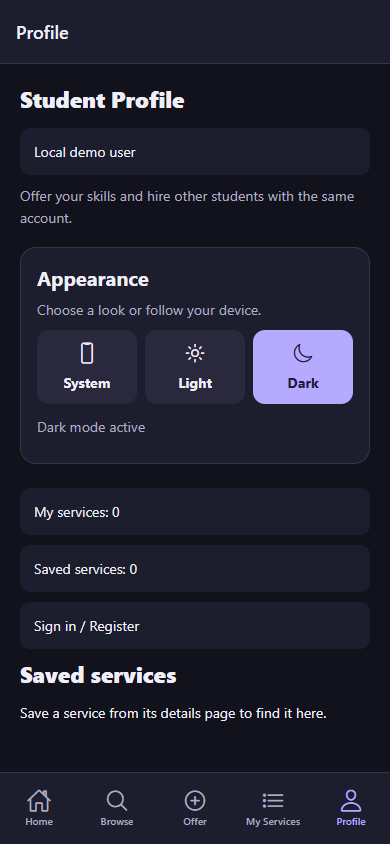
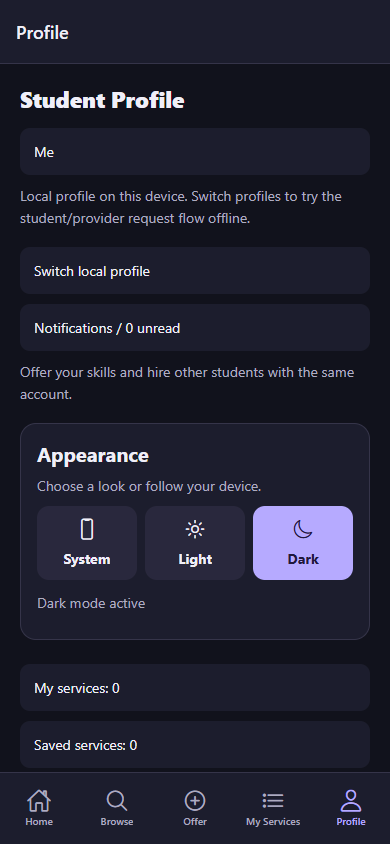
docs: document notification modes and verified mobile flows

diff --git a/README.md b/README.md
@@ -31,6 +31,18 @@ Run `npm run web` and open **http://localhost:8081** (or the port printed by Exp
 
 Screenshots come from the running Expo web application at a mobile viewport. Desktop preview: [home screenshot](docs/screenshots/home-desktop.png).
 
+## Requests and owner notifications
+
+Opening a listing does not send a notification. A student presses **Request course**, **Request class** or **I'm interested** and can add a message of up to 500 characters. The provider receives an unread notification with the listing, sender details and message. Sending a request leaves the listing available; it does not charge money or confirm a booking.
+
+Use the home bell or **Profile > Notifications**. The unread count appears on the bell and Profile tab. Providers can mark individual/all notifications as read, open the service, and use available sender email/phone links. Repeated requests from the same profile/account do not duplicate a notification or reset its read state. Owners cannot request their own listing. Notification text remains available after a listing is deleted.
+
+The inbox refreshes on entry, on foreground resume, and every 10 seconds while the app is active. These are **in-app notifications**, not operating-system push notifications, SMS or automatically sent emails.
+
+| Student request | Provider inbox |
+| --- | --- |
+| ![Interest request](docs/screenshots/interest-request-mobile.png) | ![Provider notification](docs/screenshots/provider-inbox-mobile.png) |
+
 ## Appearance
 
 Open **Profile > Appearance** and choose **System**, **Light** or **Dark**. System is the default and follows device/browser appearance changes while the app is open. Explicit light/dark choices override the device preference and persist across app restarts in the existing SQLite metadata table.
@@ -58,19 +70,29 @@ For a physical device, connect the phone and computer to the same network and us
 
 ## Two modes
 
-**Offline demo (default):** SQLite persists your service/course listings, provider contact details, pricing units, availability, edits, booking status and favorites on the current device. Ten sample offers seed once on new installations. Sample providers have no live phone/email, so their contact buttons remain hidden. Old installations retain their existing listings and favorites; the additive migration supplies safe defaults for the new fields and preserves old deadlines without showing them in the service form. No data reset is required. Deleting listings does not cause them to reappear.
+**Offline local profiles (default / ICA demonstration):** All listings, requests, notifications, favorites and appearance preferences are stored on the current device in SQLite. No public API or online database is used. Ten sample offers seed once on new installations. Existing listings, deadlines, favorites and theme settings survive the versioned migration.
 
-Offline offers stay on the current device. For shared publishing and the in-app hiring action, configure the backend and sign in. Browser SQLite needs WebAssembly and cross-origin isolation; Metro supplies the required headers.
+Open **Profile > Switch local profile**. Use **Me** as a provider, switch to **Student** (or create a learner profile with email and an optional Sri Lankan phone), and send a request. Switch back to the provider to see the inbox. Local profiles are a demonstration on one device, not password-protected online accounts. Favorites and listing ownership are separate for each local profile. Sample providers also have local profiles, so their inboxes can be inspected in the demo.
 
-**Online accounts:** copy `.env.example` to `.env.local`, set `EXPO_PUBLIC_API_URL` to your running UniTask Express API origin, and restart Expo. Open **Profile > Sign in / Register**. The API supports registration/login, shared listings, owner editing/deletion, hiring, completed-service reviews, and notifications (refreshed every 30 seconds while that screen is open).
+**Optional shared accounts:** This repository includes a private Node/SQLite API for accounts and notifications shared across clients. No third-party API, MongoDB or online database is required.
 
-```dotenv
-EXPO_PUBLIC_API_URL=https://your-unitask-api.example.com
+```sh
+# Terminal 1; verified with Node.js 24.13
+npm run api
+# API defaults to http://127.0.0.1:8000
 ```
 
-The existing API already stores contact email and phone. To retain compatibility with its original field allowlist, the mobile adapter stores listing type, pricing unit, availability and provider display name in a readable service-details footer in the description. The mobile app decodes the footer when reading/editing; older web clients display it as readable text. Legacy API listings without a footer default to Service / Per project. The original API routes and booking statuses are retained.
+Copy `.env.example` to `.env.local`, set `EXPO_PUBLIC_API_URL=http://127.0.0.1:8000`, and restart Expo. Open **Profile > Sign in / Register**. Register a provider, publish a course/service, and use a second account to send a request. Online listings are separate from the device's offline sample data and are not uploaded automatically.
 
-For Android emulators use `http://10.0.2.2:8000`; for phones use your computer's LAN IP instead of localhost. Configure MongoDB and JWT secrets on the server, following the web repository instructions. Never put server secrets into this app; `EXPO_PUBLIC_*` values are public. Use HTTPS for deployed APIs. Sign-in tokens stay in memory and clear on sign-out/restart. Offline listings are not automatically uploaded. Favorites remain an offline feature.
+The API stores accounts, salted password hashes, hashed session tokens, shared listings and notifications in `.unitask-api/data.sqlite`. This directory is ignored by Git and excluded from Metro. Back it up if retaining shared-account data. The app keeps its sign-in token only in memory; sign in again after restarting the app.
+
+For two phones/computers on the same LAN, start the API with `HOST=0.0.0.0`, set each app's API URL to the server computer's LAN IP (for example, `http://192.168.1.10:8000`), and use the same network. Android emulators can use `http://10.0.2.2:8000`. A LAN connection is sufficient; internet/cloud services are unnecessary. Use HTTPS when hosting beyond local development.
+
+```powershell
+$env:HOST='0.0.0.0'; npm run api
+```
+
+The original API field names/routes remain compatible. Extra listing metadata is retained in a readable description footer for older clients. A previously configured Express backend needs the interest endpoints described in [backend/README.md](backend/README.md); the included private API implements them.
 
 ## Checks
 
@@ -85,11 +107,11 @@ npx expo install --check
 npx expo-doctor
 ```
 
-Unit tests cover phone/email validation, API contact/metadata round trips, preservation of an old SQLite database, migration idempotency and one-time seeding. Database tests use Node's built-in SQLite. API tests mock transport rather than a deployed server.
+Tests cover contacts, profile ownership, recipient-only inboxes, duplicate protection, old-database migration, safe read-state updates and one-time seeding. Real HTTP tests verify the included private API with separate users, persistent SQLite accounts/notifications and server restarts; the legacy adapter also retains its mocked contract test.
 
-Browser tests use installed Microsoft Edge by default. Alternatively install Chromium with `npx playwright install chromium` and set `PLAYWRIGHT_CHANNEL=chromium`. The marketplace workflow checks filters, favorites, invalid contacts, publishing a paid course, contact links, reload persistence, owner edits, status changes and deletion. The appearance workflow verifies saved manual choices, live system changes, themed screens/inputs and draft preservation. Both capture the screenshots above. It does not place calls or send email. Physical Android/iOS appearance rendering, system bars, keyboard/link handling and live backend behavior require separate device/server validation.
+Browser tests use installed Microsoft Edge by default. Alternatively install Chromium with `npx playwright install chromium` and set `PLAYWRIGHT_CHANNEL=chromium`. The marketplace workflow checks filters, favorites, invalid contacts, publishing a paid course, contact links, reload persistence, owner edits, status changes and deletion. The appearance workflow verifies saved manual choices, live system changes, themed screens/inputs and draft preservation. The local notification workflow blocks backend calls and verifies profile creation/switching, owner-only delivery, contact links, read state and reload persistence. The shared-account workflow signs in two independent browser contexts and sends a request through the real private API; it requires PLAYWRIGHT_API_URL. The workflows capture the screenshots above without placing calls or sending email. Physical Android/iOS appearance rendering, system bars, keyboard/link handling and cross-phone behavior require separate device validation.
 
-Validation on 2026-11-15: lint, JavaScript typecheck, all 7 unit/database/API tests and both browser workflows passed. Appearance captures were visually reviewed and the marketplace screenshots refreshed.
+Validation on 2026-11-16: lint, JavaScript typecheck and all 13 unit/database/real HTTP tests passed. Appearance, marketplace, offline notification and two-account API browser workflows passed. Request and inbox screenshots were visually reviewed.
 
 ## Source layout
 
@@ -99,6 +121,8 @@ src/components/   Shared listing cards and service form
 src/constants/    Theme, categories, offering types and price units
 src/database/     SQLite migration/seeding and repository/API adapter
 src/services/     API transport and memory-only session
+src/context/      Local profile and unread inbox state
+backend/          Optional private Node/SQLite API
 src/theme/        Shared appearance state and persistent preferences
 src/data/         Offline sample services, courses and classes
 src/utils/        Contact validation, API compatibility and dialogs

diff --git a/DEVELOPMENT_LOG.md b/DEVELOPMENT_LOG.md
@@ -126,3 +126,29 @@ Read this file, git status, git log, then inspect any running Expo process befor
 - npx expo lint and npx tsc --noEmit passed. A focused browser check verified the text and bounds at 320px, 390px and desktop, including light/dark modes, with no runtime errors.
 - Refreshed four home screenshots and visually reviewed the narrow dark and mobile light layouts.
 - Preview: http://localhost:8081/home, Expo session 65780, CI/offline mode with max-workers 2.
+
+
+## Owner interest notifications - 2026-11-16
+- User selected explicit I am interested / Request course submission and both offline/online modes. Subsequent steering: fit the app and ICA requirements.
+- Building offline local profiles, owner-specific requests/inbox, unread badges, duplicate protection and optional private SQLite HTTP API for cross-device accounts without public APIs/online databases. No email/SMS/push delivery or payment processing.
+- Working on feature/interest-notifications. Core schema/repository/context work started; remaining UI, private API, tests, validation, docs and delivery.
+
+
+## Interest notification recovery checkpoint - 2026-11-16
+- UI, migration v2, local profile ownership/favorites, request panel, owner inbox/badges and optional Node private SQLite API are implemented.
+- Lint, typecheck and all 13 unit/real SQLite/HTTP tests passed. Theme and marketplace browser workflows passed before session interruption; the two notification workflows still need a complete recorded run.
+- No preview/API processes survived interruption. Restarting them as hidden detached helpers with .expo logs, then running all four browser workflows (including local profile creation and separate real HTTP accounts).
+- Remaining: fix any browser issues, document new modes/API, review screenshots, final checks, commit/push feature/interest-notifications and leave previews available.
+
+## Interest notifications verified - 2026-11-16
+- Implemented on feature/interest-notifications: explicit Request course / Request class / I'm interested submission, optional 500-character message, owner-only inbox, sender contacts, home/Profile unread badges, individual/all read actions, duplicate protection and retained notification text after listing deletion.
+- Schema v2 preserves existing listings/deadlines/favorites and adds persistent local profiles, profile-specific favorites/ownership and local interest notifications. Profile > Switch local profile supports the offline ICA demonstration without a backend. New profiles accept an email and optional Sri Lankan phone.
+- Included an optional private Node/SQLite HTTP server for separate shared accounts/clients. No server packages, public API, cloud database or native dependencies added. Accounts/password hashes/token hashes/listings/notifications persist in ignored .unitask-api/data.sqlite, which Metro excludes.
+- Foreground inbox polling runs every 10 seconds and refreshes on entry/resume. Requests do not charge money or confirm bookings. These are in-app notifications; OS push, SMS and automated email are not implemented.
+- Final required checks passed: npm run lint; npm run typecheck; npm test (13 tests). The focused HTTP tests also passed after correcting the Sinhala fixture to explicit Unicode escapes.
+- Final npm run test:web passed all 4 workflows in 2.1 minutes with no captured page/console errors. Offline verification blocked API calls, created/switched learner profiles, verified owner-only delivery/contact links and read-state persistence. Shared-account verification signed in two separate browser contexts and delivered a request through the real private API.
+- Corrected test navigation timing and selected the active Expo Router screen when retained home/browse cards shared a label. One earlier rerun started before Metro listened; reran after the preview was ready. No forced clicks or arbitrary browser sleeps.
+- Refreshed home/appearance screenshots and captured/visually reviewed the real mobile request and provider inbox screens. README and backend/README.md document both modes, setup, test commands and limitations.
+- Current hidden helpers: Expo PID 3916 at http://localhost:8081, API PID 2516 at http://127.0.0.1:8000; logs under .expo/interest-preview* and .expo/interest-api*. Expo uses CI=1, EXPO_OFFLINE=1, max-workers 2 and EXPO_PUBLIC_API_URL pointing to the private API. Inspect listeners before restarting helpers.
+- Physical Android/iOS appearance, keyboard/contact-link behavior and delivery between actual phones remain unverified. The optional API is available locally, not deployed remotely. Sign-in tokens remain memory-only in the app.
+- Delivering as a feature branch; no new merge into main was requested for this feature.

diff --git a/backend/README.md b/backend/README.md
@@ -1,0 +1,45 @@
+# Optional UniTask private SQLite API
+
+This is an optional local/LAN backend for the mobile app's shared-account mode. The ICA offline mode works independently using the mobile device's SQLite database. The API uses Node built-ins only and was verified with Node 24.13; no npm server dependencies or online database are required.
+
+```sh
+npm run api
+```
+
+Defaults: `127.0.0.1:8000`, local data at `.unitask-api/data.sqlite`. Override `HOST`, `PORT` or `UNITASK_API_DB` as needed. Use `HOST=0.0.0.0` for a trusted LAN and configure `EXPO_PUBLIC_API_URL` with the server's LAN IP before restarting Expo. For remote hosting, use HTTPS. The data directory is private, ignored by Git and excluded from Metro.
+
+Register/login through the app. Passwords are salted and hashed with scrypt; the database stores only hashes of random bearer tokens. Sessions expire after seven days. The mobile app's token is memory-only. Auth endpoints have a basic per-address rate limit; JSON bodies are limited to 32 KiB.
+
+## API contract
+
+All routes except health and register/login require `Authorization: Bearer <token>`.
+
+| Method | Route | Behavior |
+| --- | --- | --- |
+| GET | /api/health | Health check |
+| POST | /api/auth/register | name, email, password; returns token and user |
+| POST | /api/auth/login | email, password; returns token and user |
+| GET | /api/auth/me | Current user |
+| GET / POST | /api/tasks | Search/category list or create a service |
+| GET / PUT / DELETE | /api/tasks/:id | Details or provider-only modification |
+| GET | /api/tasks/:id/interests/me | Whether the current user already sent a request |
+| POST | /api/tasks/:id/interests | Optional message (max 500 characters); creates the owner's notification |
+| POST | /api/tasks/:id/hire | Explicit booking; changes status and creates a separate notification |
+| POST | /api/tasks/:id/rate | Review a completed service |
+| GET | /api/notifications | Current user's latest 50 notifications plus total unread count |
+| PATCH | /api/notifications/read-all | Mark only the current user's notifications read |
+| PATCH | /api/notifications/:id/read | Mark an owned notification read |
+
+An interest request derives sender and recipient from authenticated account/listing IDs, not client-provided recipient IDs. It does not alter availability or perform payment. The unique sender/task/type constraint prevents duplicate notifications, including concurrent retries. A duplicate does not resurrect a notification that was marked read. Viewing a listing never creates a notification. Owners cannot self-request; unavailable listings reject requests. Recipient filtering also applies to read operations.
+
+Requests store a message and reference the requesting user's contact email. Deleted listings keep the notification text but clear the link. Inboxes poll while the app is foregrounded; this implementation does not send OS push notifications, SMS or email.
+
+## Verification
+
+`npm test` runs real HTTP tests with distinct accounts, owner-only reads, concurrent request retries, Unicode messages and persisted SQLite data across a server restart. Browser verification of shared accounts requires starting this API, setting Expo's API URL, and running:
+
+```powershell
+$env:PLAYWRIGHT_API_URL='http://127.0.0.1:8000'; npm run test:web
+```
+
+Without `PLAYWRIGHT_API_URL`, only the shared-account browser case is skipped; local-profile notification tests still run. Browser fixture accounts use reserved test email domains and are not real messages to other people.
